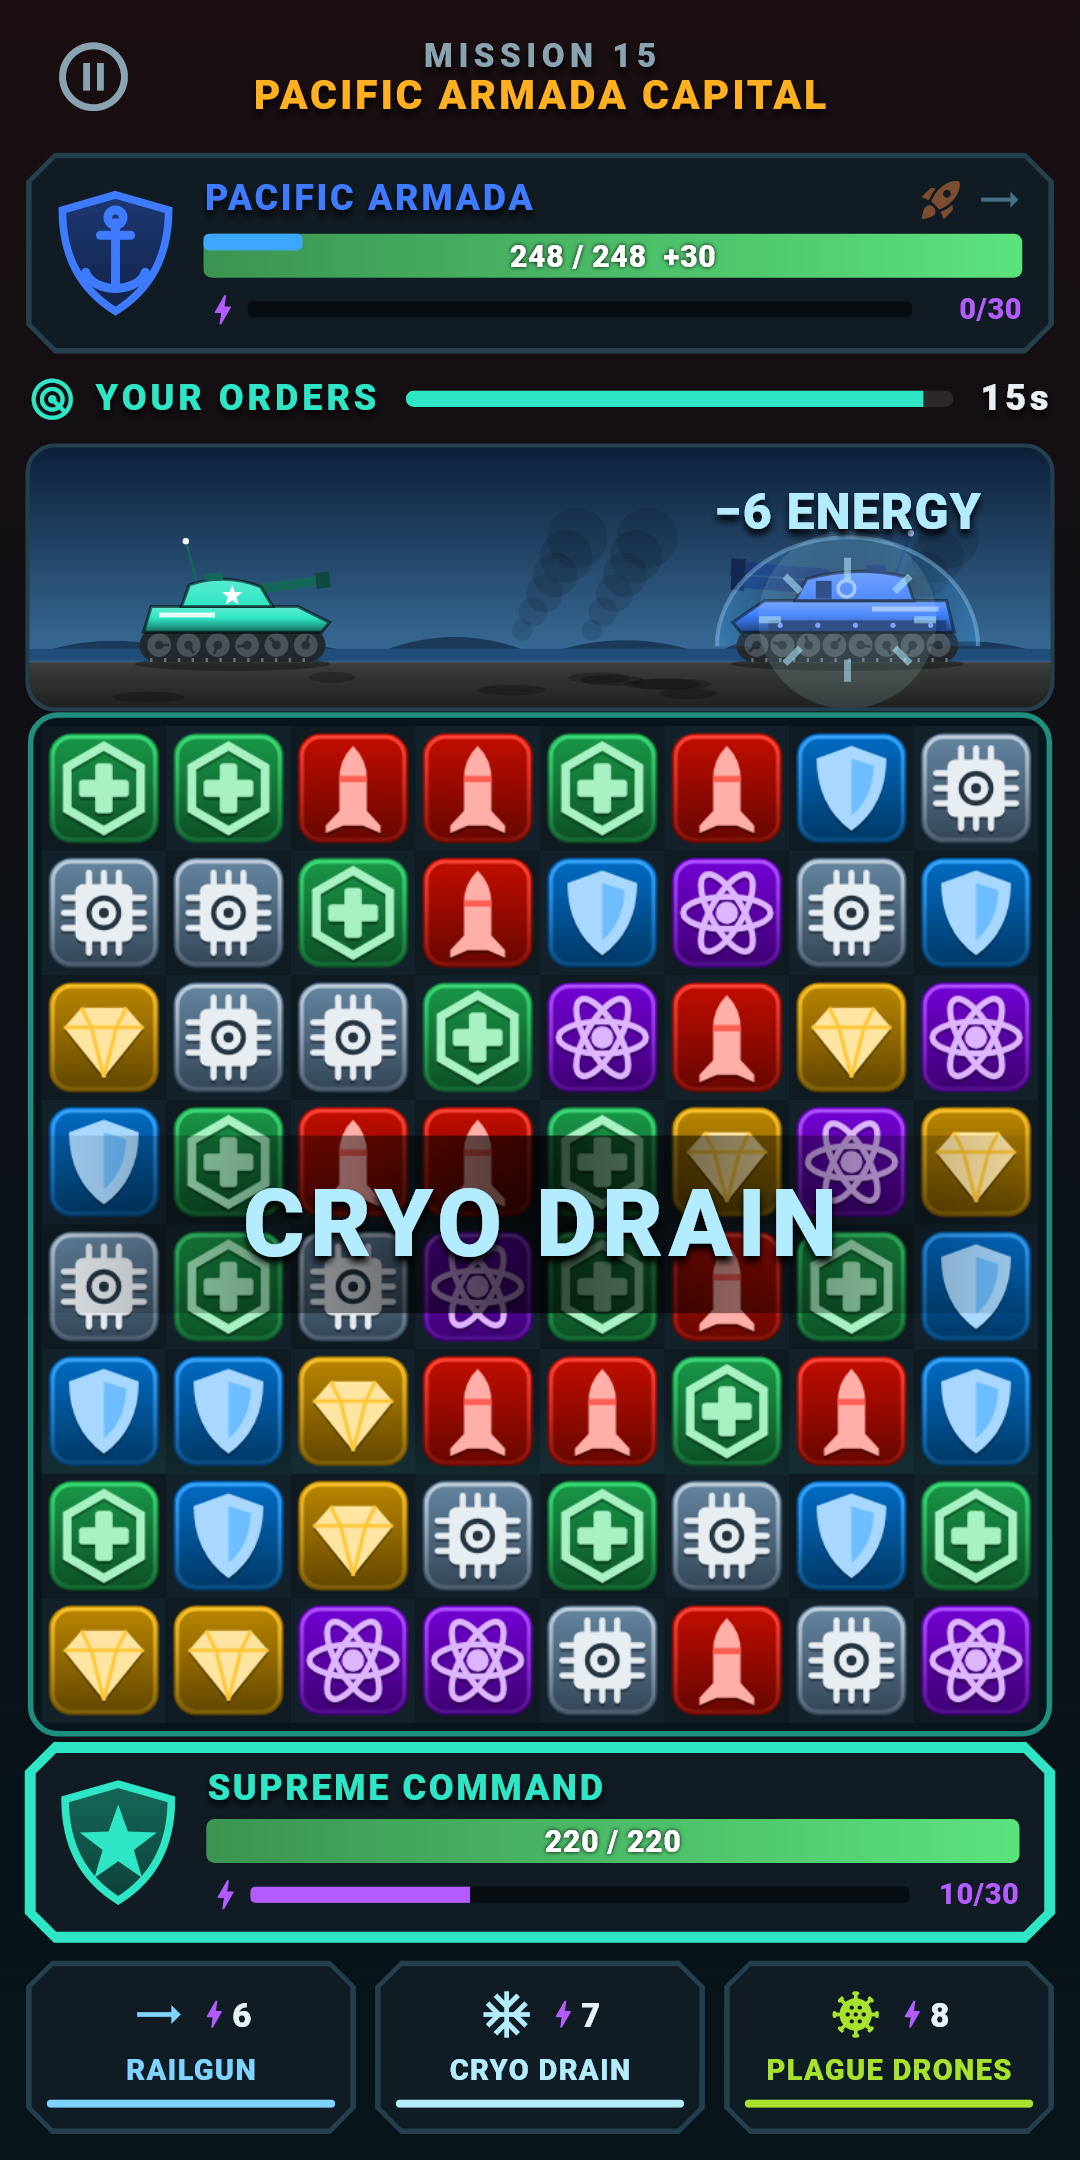
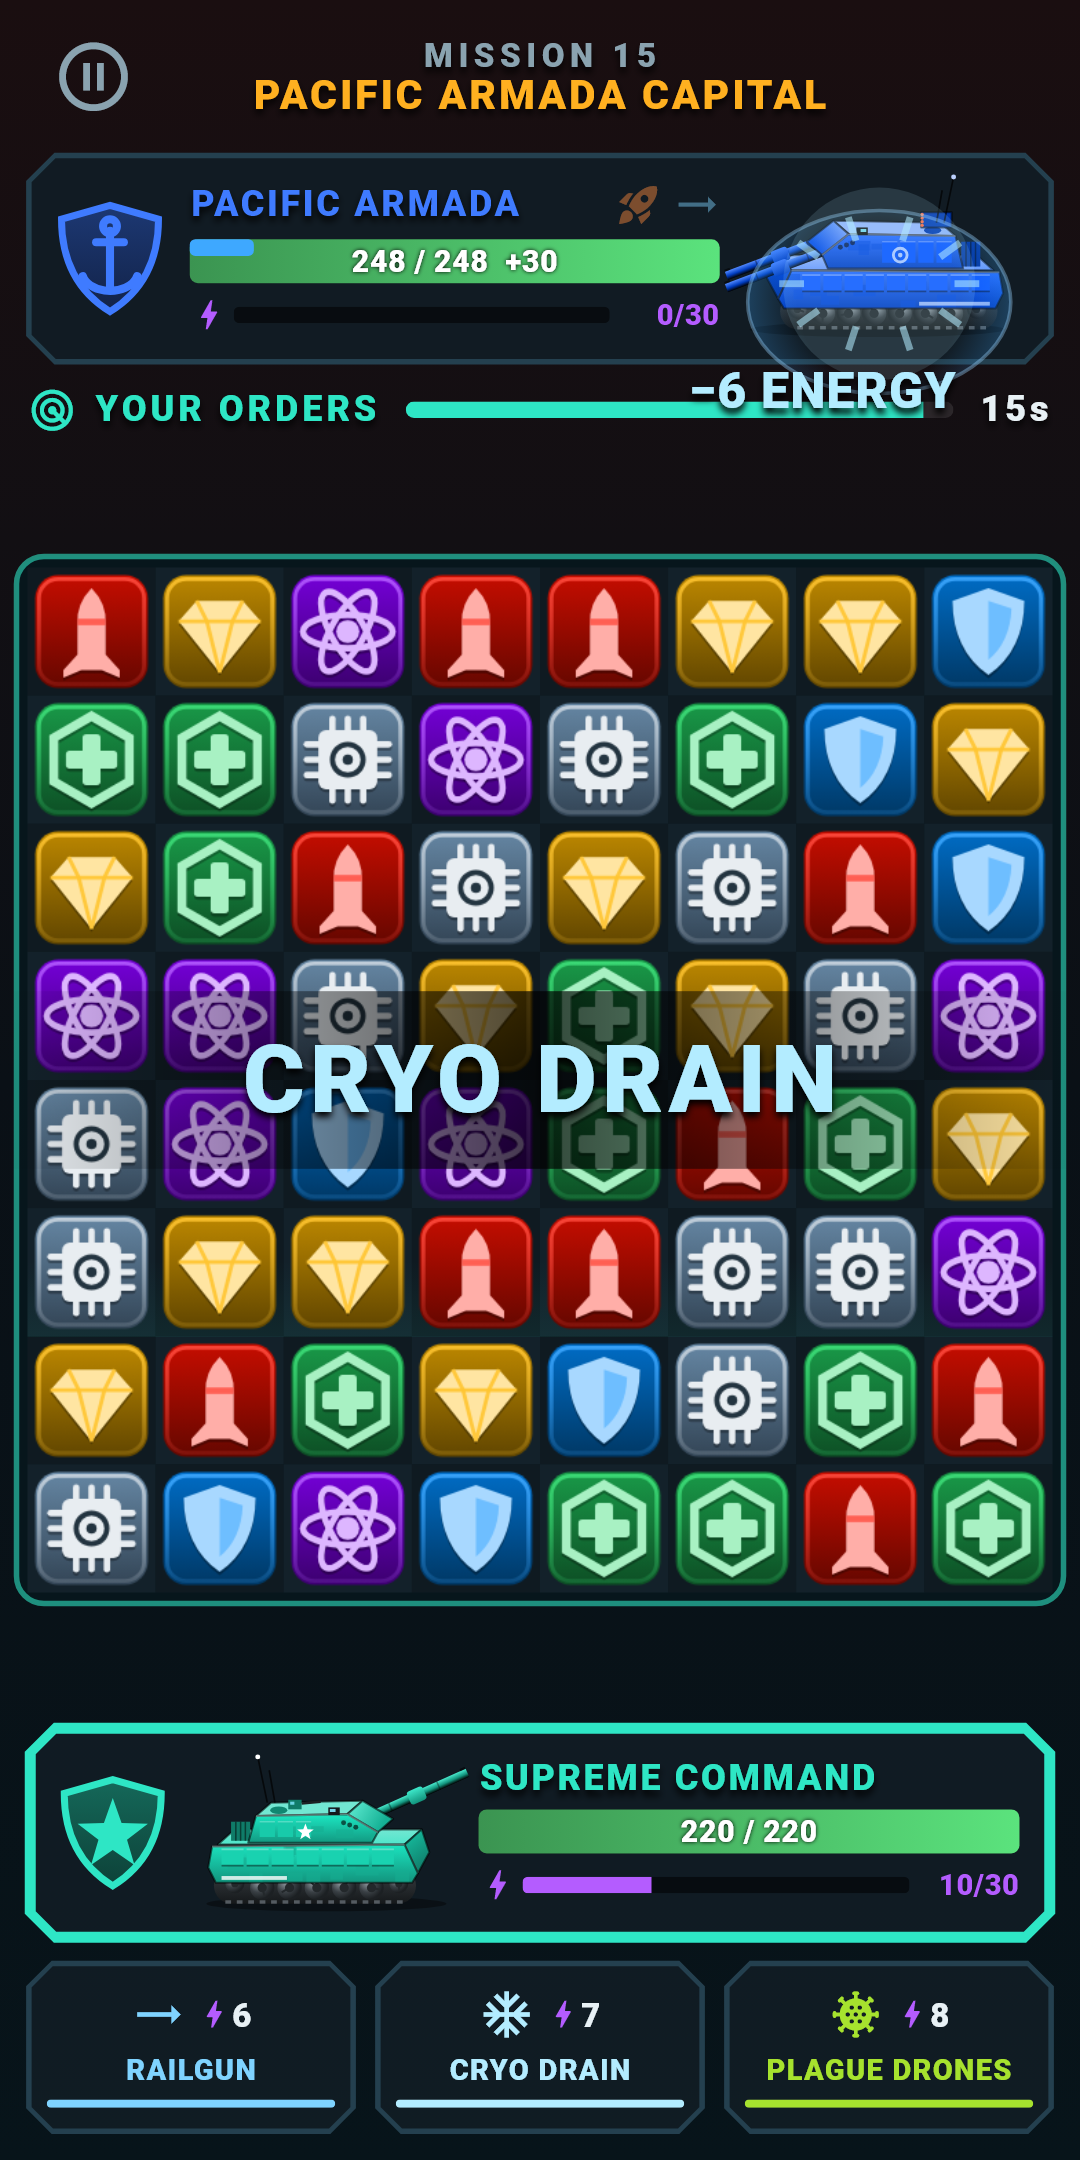
World War V 1.1: modern tanks on both ends of the grid

diff --git a/worldwarv/index.html b/worldwarv/index.html
@@ -61,7 +61,7 @@
     <div class="card"><div class="emoji">🚀</div><h3>Match to fight</h3>
       <p>Line up Warheads to strike, Nano-bots to repair, Plasma Shields to defend and Quantum Cores to charge your superweapons.</p></div>
     <div class="card"><div class="emoji">🪖</div><h3>Tank warfare</h3>
-      <p>Every match fires your tank’s cannon on a live battlefield above the grid, across 12 war-torn regions.</p></div>
+      <p>Modern battle tanks on both ends of the grid trade cannon fire with every match you make.</p></div>
     <div class="card"><div class="emoji">⏱</div><h3>Turn-based duels</h3>
       <p>You and the enemy commander share one grid, 15 seconds per turn. Match 4 for an armour-piercing strike and an extra turn.</p></div>
     <div class="card"><div class="emoji">💣</div><h3>System Overload</h3>
